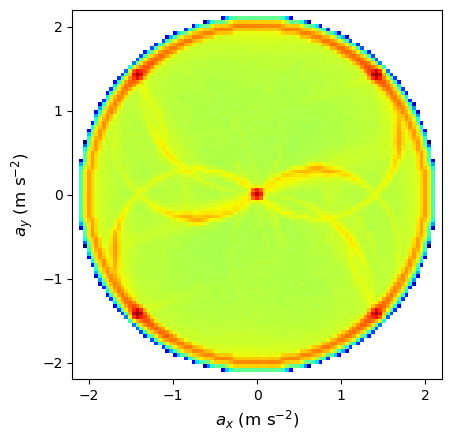
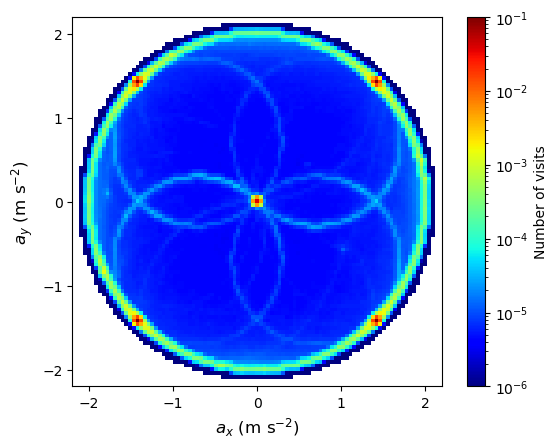
Last plots

diff --git a/analysis/saturated_controller.py b/analysis/saturated_controller.py
@@ -58,12 +58,13 @@ xedges = np.linspace(-2.2, 2.2, 100)
 yedges = np.linspace(-2.2, 2.2, 100)
 
 heatmap, xedges, yedges = np.histogram2d(acceleration_c[:,0], acceleration_c[:,1], bins=(xedges, yedges))
+heatmap /= np.sum(heatmap)
 extent = [xedges[0], xedges[-1], yedges[0], yedges[-1]]
 
 
 heatmap = gaussian_filter(heatmap, sigma=0.5)
 #plt.pcolor(heatmap.T,norm=matplotlib.colors.LogNorm(), cmap='jet')
-plt.imshow(heatmap.T, extent=extent, origin='lower', cmap='jet',norm=matplotlib.colors.LogNorm(),vmin=1)
+plt.imshow(heatmap.T, extent=extent, origin='lower', cmap='jet',norm=matplotlib.colors.LogNorm(), vmin=10e-7)
 cbar = plt.colorbar()
 cbar.set_label('Number of visits')
 
@@ -96,11 +97,12 @@ xedges = np.linspace(-1.1, 1.1, 100)
 yedges = np.linspace(-1.1, 1.1, 100)
 
 heatmap, xedges, yedges = np.histogram2d(acceleration_c[:,0], acceleration_c[:,1], bins=(xedges, yedges))
+heatmap /= np.sum(heatmap)
 extent = [xedges[0], xedges[-1], yedges[0], yedges[-1]]
 
 heatmap = gaussian_filter(heatmap, sigma=0.5)
 #plt.pcolor(heatmap.T,norm=matplotlib.colors.LogNorm(), cmap='jet')
-plt.imshow(heatmap.T, extent=extent, origin='lower', cmap='jet',norm=matplotlib.colors.LogNorm(),vmin=1)
+plt.imshow(heatmap.T, extent=extent, origin='lower', cmap='jet',norm=matplotlib.colors.LogNorm(), vmin=10e-7)
 cbar = plt.colorbar()
 cbar.set_label('Number of visits')
 

diff --git a/analysis/saturated_controller_cover.py b/analysis/saturated_controller_cover.py
@@ -58,12 +58,13 @@ xedges = np.linspace(-2.2, 2.2, 100)
 yedges = np.linspace(-2.2, 2.2, 100)
 
 heatmap, xedges, yedges = np.histogram2d(acceleration_c[:,0], acceleration_c[:,1], bins=(xedges, yedges))
+heatmap /= np.sum(heatmap)
 extent = [xedges[0], xedges[-1], yedges[0], yedges[-1]]
 
 
 heatmap = gaussian_filter(heatmap, sigma=0.5)
 #plt.pcolor(heatmap.T,norm=matplotlib.colors.LogNorm(), cmap='jet')
-plt.imshow(heatmap.T, extent=extent, origin='lower', cmap='jet',norm=matplotlib.colors.LogNorm(),vmin=1)
+plt.imshow(heatmap.T, extent=extent, origin='lower', cmap='jet',norm=matplotlib.colors.LogNorm(),vmin=10e-7)
 
 ax.set_box_aspect(1)
 plt.axis('off')
